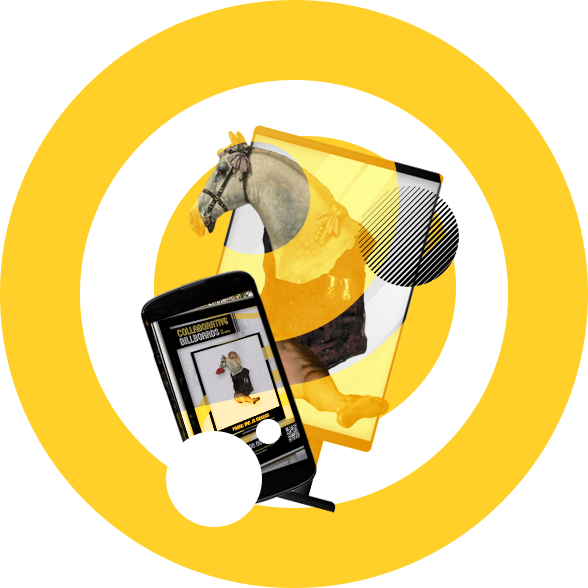
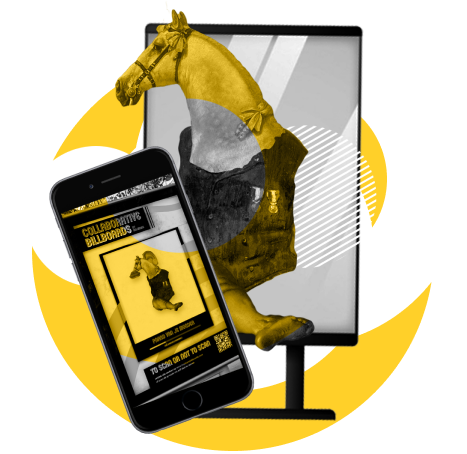
nieuwe headerimg

diff --git a/src/css/style.css b/src/css/style.css
@@ -101,7 +101,6 @@ h3 {
   background-repeat: no-repeat;
   background-blend-mode: color-burn;
 
-
   & h2 {
     text-transform: uppercase;
     font-weight: bold;
@@ -112,7 +111,7 @@ h3 {
   & img {
     position: absolute;
     right: -5rem;
-    top: 10%;
+    bottom: 10%;
   }
 
 }
